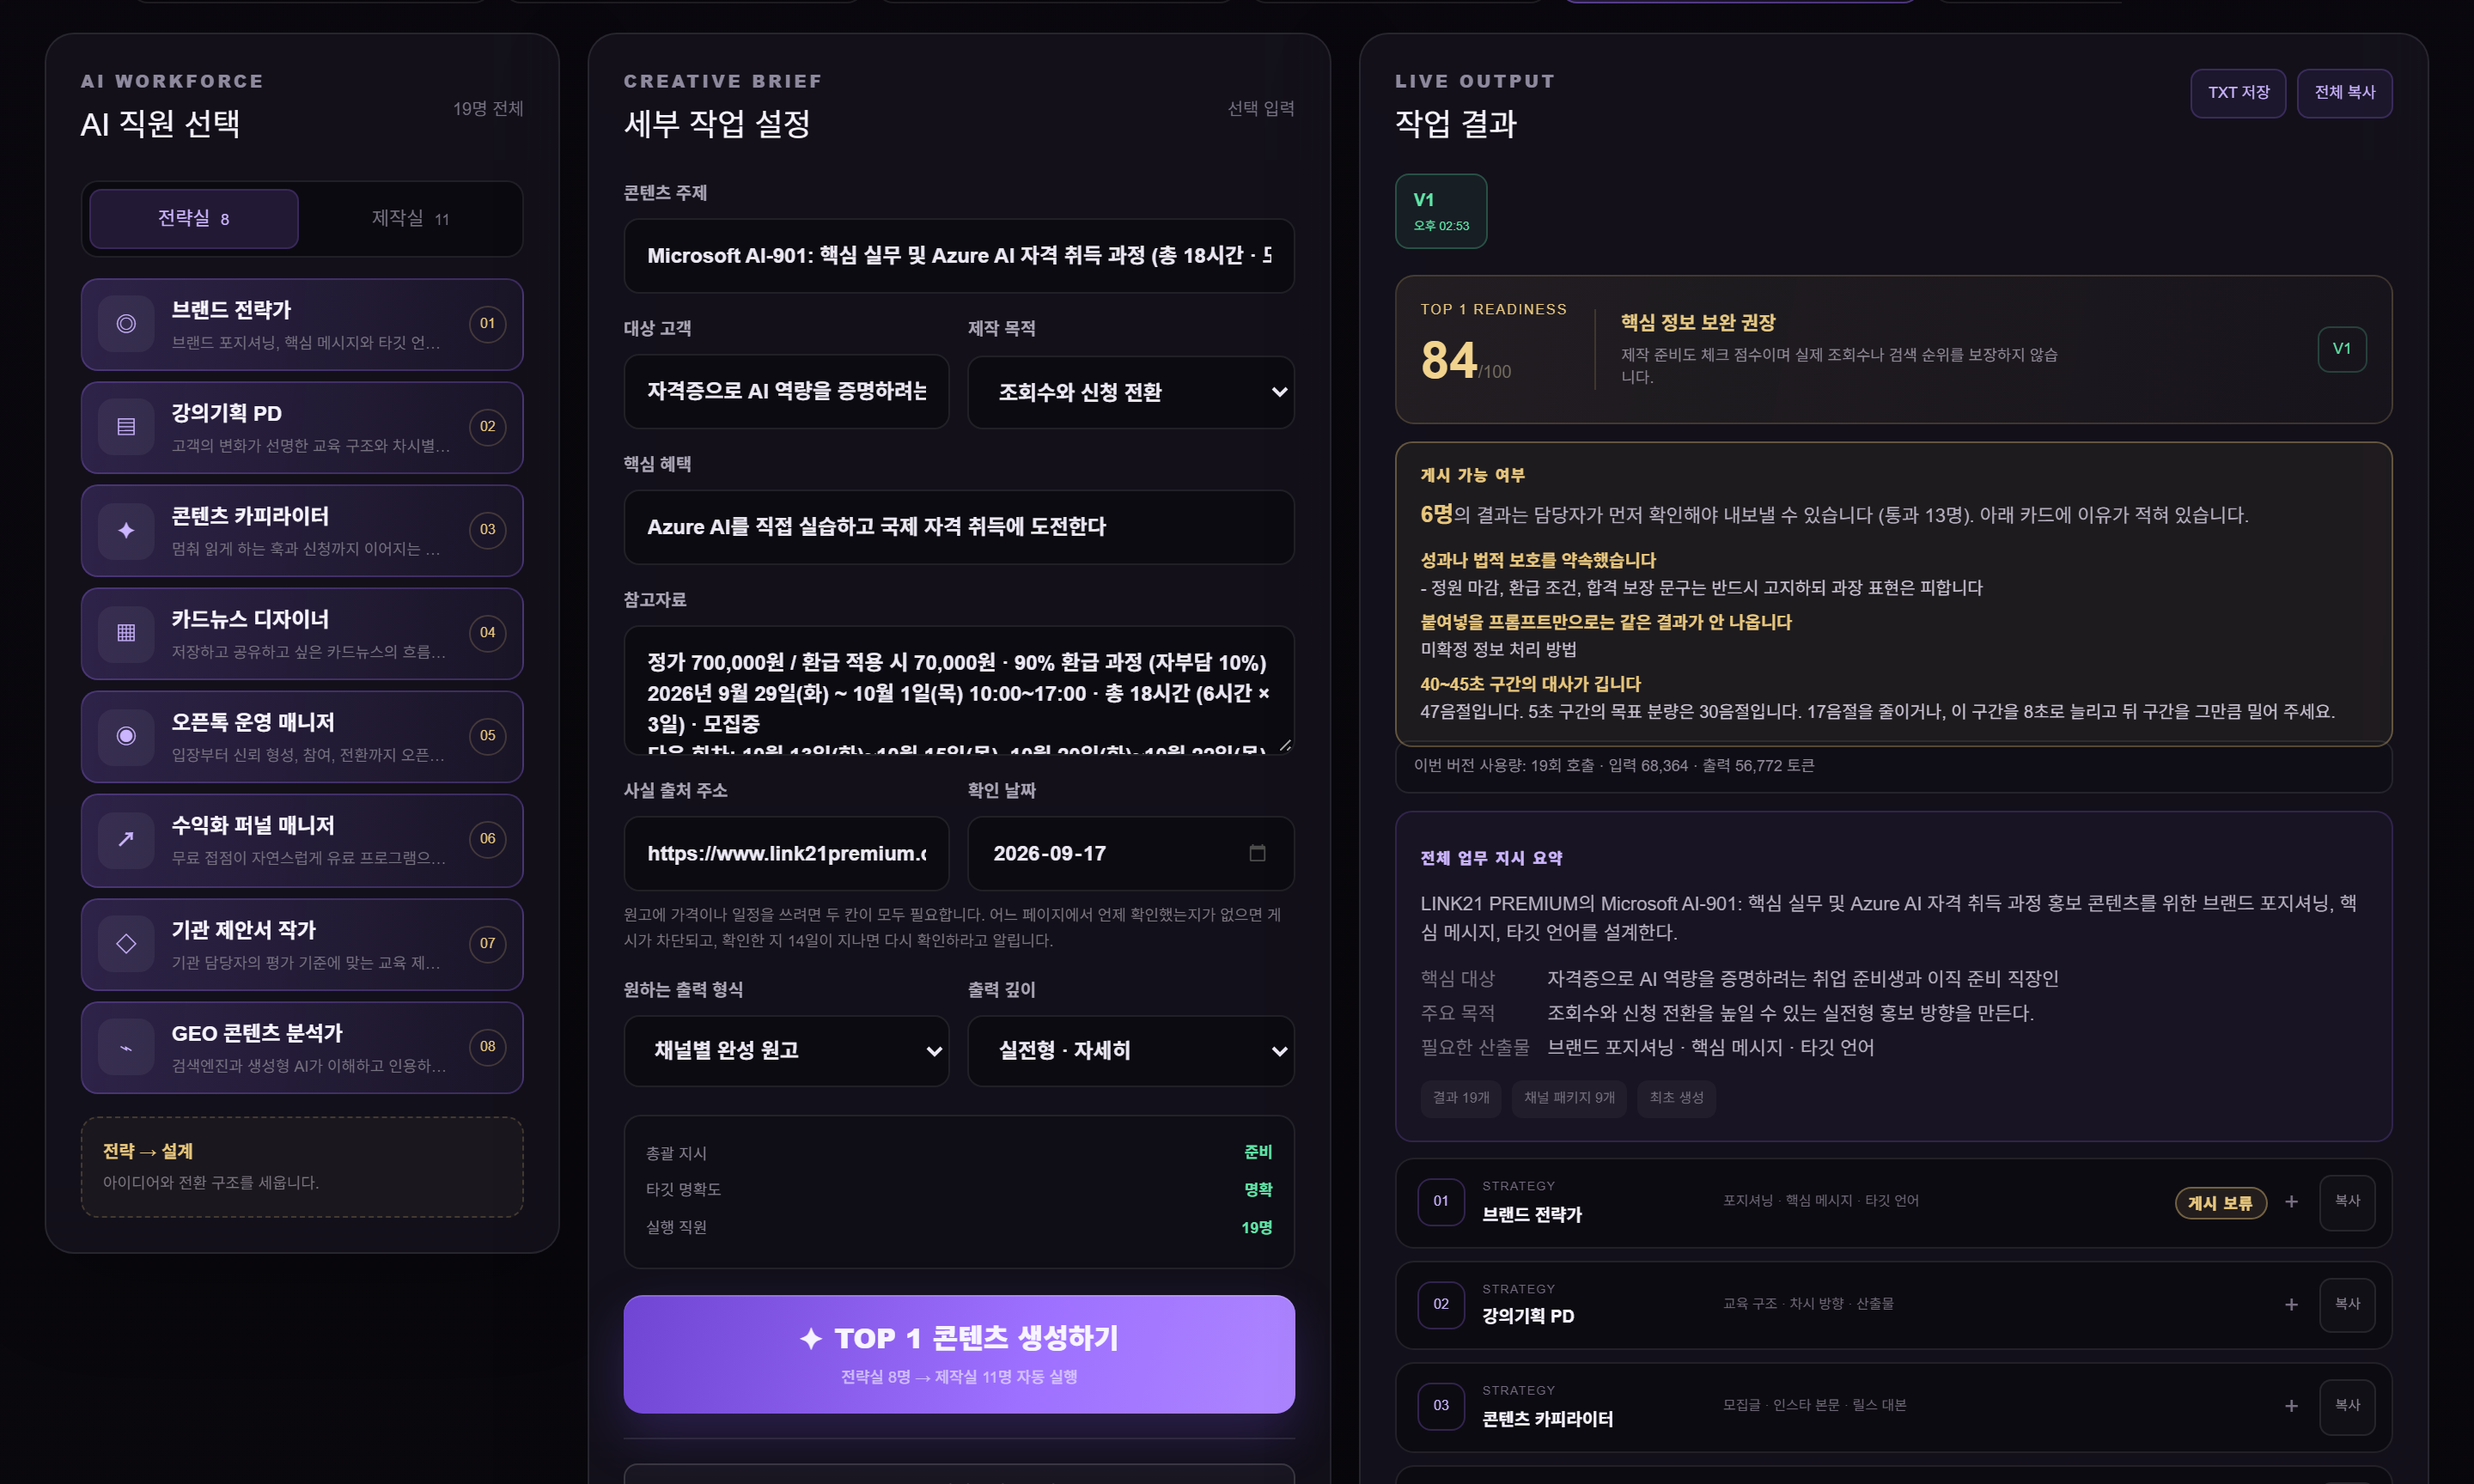
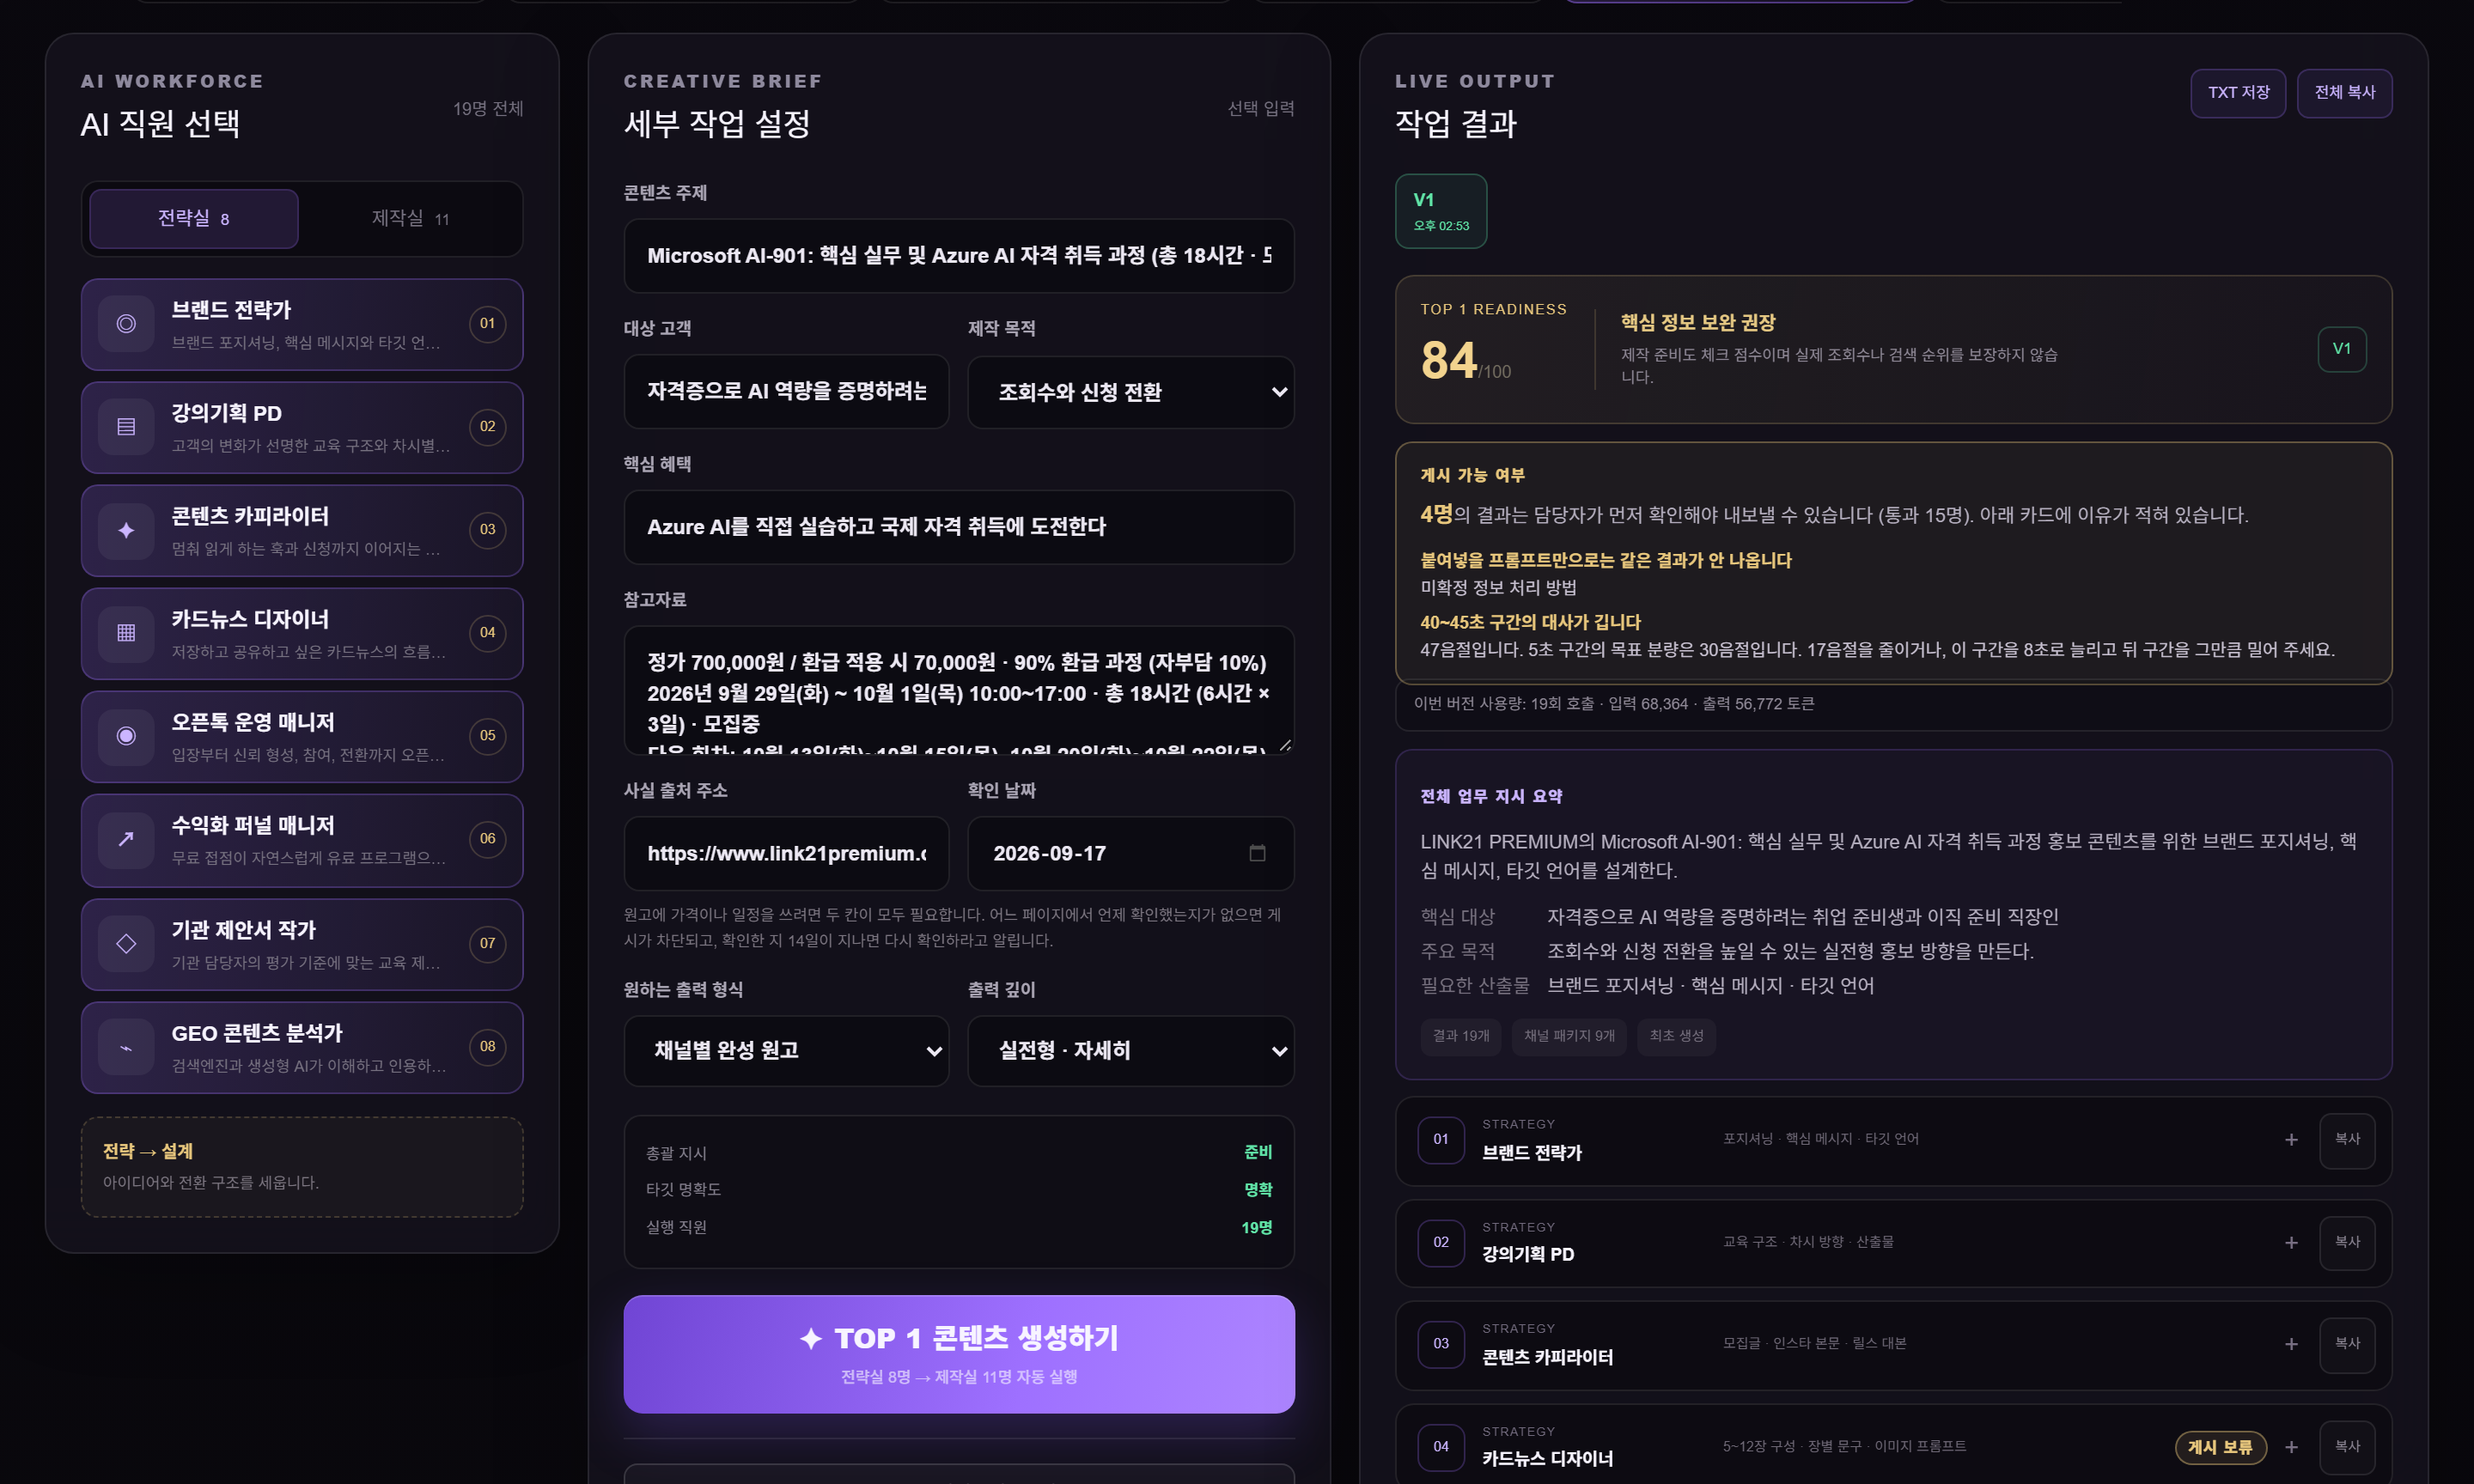
fix(jarvis): 게시 판정 오탐 수정을 반영해 스크린샷과 한계 문장을 고친다
JARVIS 운영에 오탐 수정 2건(a3fdbe3 '피해야 할 표현' 목록, a1b2723 설명란 문구)을
배포했다. 9월 23일 AI-901 실행의 게시 가능 수가 13/19 → 15/19 로 바뀌었다.

- 01·05 스크린샷: 오탐 사유가 사라진 화면으로 다시 찍는다.
- 03 스크린샷: 예전 사례(릴스 3초 58음절)는 46음절이 설명란 문구라 오탐이었다.
  실제 결함인 영상 40~45초 구간(5초에 47음절, 목표 30)으로 바꾸고 캡션·alt 를 맞춘다.
- 결과 및 한계: 찾은 오탐을 고쳐 운영에 반영했다는 사실과, 아직 남은 오탐
  ('합격 보장 대신'처럼 돌려 쓴 부정)을 적는다. 단위 테스트 869 → 873.

diff --git a/index.html b/index.html
@@ -1262,10 +1262,10 @@
                         </div>
                       </div>
                       <div class="screenshot-slide" data-index="2">
-                        <img src="./png/jarvis/jarvis-03-publish-gate.png" alt="인스타그램 릴스 대본과, 12~15초 구간 분량 초과로 게시를 막은 판정 상자" width="605" height="784" loading="lazy" />
+                        <img src="./png/jarvis/jarvis-03-publish-gate.png" alt="숏폼 영상 대본의 40~45초 구간과, 대사 분량 초과로 게시를 막은 판정 상자" width="605" height="794" loading="lazy" />
                         <div class="slide-caption-src">
-                          <span class="lang-ko">게시 판정 — 자동 보완 1회 뒤에도 3초 구간에 58음절이 남아 게시 차단, 줄일 양을 안내</span>
-                          <span class="lang-en">Publish gate — still 58 syllables in a 3-second segment after one auto-revision, so publishing is blocked with a fix</span>
+                          <span class="lang-ko">게시 판정 — 자동 보완 1회 뒤에도 5초 구간에 47음절(목표 30음절)이 남아 게시 차단, 줄일 양을 안내</span>
+                          <span class="lang-en">Publish gate — still 47 syllables in a 5-second segment (target 30) after one auto-revision, so publishing is blocked with a fix</span>
                         </div>
                       </div>
                       <div class="screenshot-slide" data-index="3">
@@ -2890,7 +2890,7 @@
                     <span class="gallery-caption"><span class="lang-ko">말로 부탁하기</span><span class="lang-en">Ask Jarvis</span></span>
                   </div>
                   <div class="gallery-item">
-                    <img src="./png/jarvis/jarvis-03-publish-gate.png" alt="인스타그램 릴스 대본과, 12~15초 구간 분량 초과로 게시를 막은 판정 상자" width="605" height="784" loading="lazy" onerror="this.style.display='none'" />
+                    <img src="./png/jarvis/jarvis-03-publish-gate.png" alt="숏폼 영상 대본의 40~45초 구간과, 대사 분량 초과로 게시를 막은 판정 상자" width="605" height="794" loading="lazy" onerror="this.style.display='none'" />
                     <span class="gallery-caption"><span class="lang-ko">게시 판정</span><span class="lang-en">Publish Gate</span></span>
                   </div>
                   <div class="gallery-item">
@@ -2974,8 +2974,8 @@
                       <span class="lang-en">Results &amp; Limitations</span>
                     </dt>
                     <dd>
-                      <span class="lang-ko">사내 운영 중이며, 실제 행사 홍보 1건을 19명 체인으로 돌린 운영 실측에서 279초가 걸렸고 수정 뒤 19건 중 18건이 게시 가능으로 판정됐습니다(남은 1건은 릴스 구간 분량 초과). 단위 869 · 통합 252 · 화면 렌더 19개의 자동 테스트를 갖췄습니다. 한계: 게시 판정 규칙에 아직 오탐이 있어(예: 원고 속 '피해야 할 표현' 목록을 약속으로 잡음) 사람의 최종 확인이 전제이고, 업무 시간 절감은 측정하지 않아 수치로 쓰지 않았습니다. 사내 단일 workspace 전용입니다.</span>
-                      <span class="lang-en">In internal production. A production run of one real event promotion through all 19 agents took 279 seconds, and after fixes 18 of 19 results were judged publishable (the remaining one exceeded a Reels segment length). Backed by 869 unit, 252 integration and 19 rendering tests. Limitations: the publish gate still produces false positives (e.g., flagging a draft's "phrases to avoid" list as a promise), so a human makes the final call; time savings were not measured and are not claimed. Single internal workspace only.</span>
+                      <span class="lang-ko">사내 운영 중이며, 실제 행사 홍보 1건을 19명 체인으로 돌린 운영 실측에서 279초가 걸렸고 수정 뒤 19건 중 18건이 게시 가능으로 판정됐습니다(남은 1건은 릴스 구간 분량 초과). 단위 873 · 통합 252 · 화면 렌더 19개의 자동 테스트를 갖췄습니다. 결과를 검수하며 찾은 게시 판정 오탐('피해야 할 표현' 목록을 약속으로 읽음, 영상 설명란 문구를 대사 분량으로 셈)은 재현 테스트와 함께 고쳐 운영에 반영했습니다. 한계: '합격 보장 대신'처럼 돌려 쓴 부정 표현은 아직 다 알아보지 못해 오탐이 남아 있으므로 사람의 최종 확인이 전제이고, 업무 시간 절감은 측정하지 않아 수치로 쓰지 않았습니다. 사내 단일 workspace 전용입니다.</span>
+                      <span class="lang-en">In internal production. A production run of one real event promotion through all 19 agents took 279 seconds, and after fixes 18 of 19 results were judged publishable (the remaining one exceeded a Reels segment length). Backed by 873 unit, 252 integration and 19 rendering tests. Publish-gate false positives found in review (reading a "phrases to avoid" list as promises, counting a video's post-description lines as spoken script) were fixed with regression tests and shipped to production. Limitations: indirect negations such as "instead of a pass guarantee" are not all recognized yet, so false positives remain and a human makes the final call; time savings were not measured and are not claimed. Single internal workspace only.</span>
                     </dd>
                   </div>
                 </dl>
